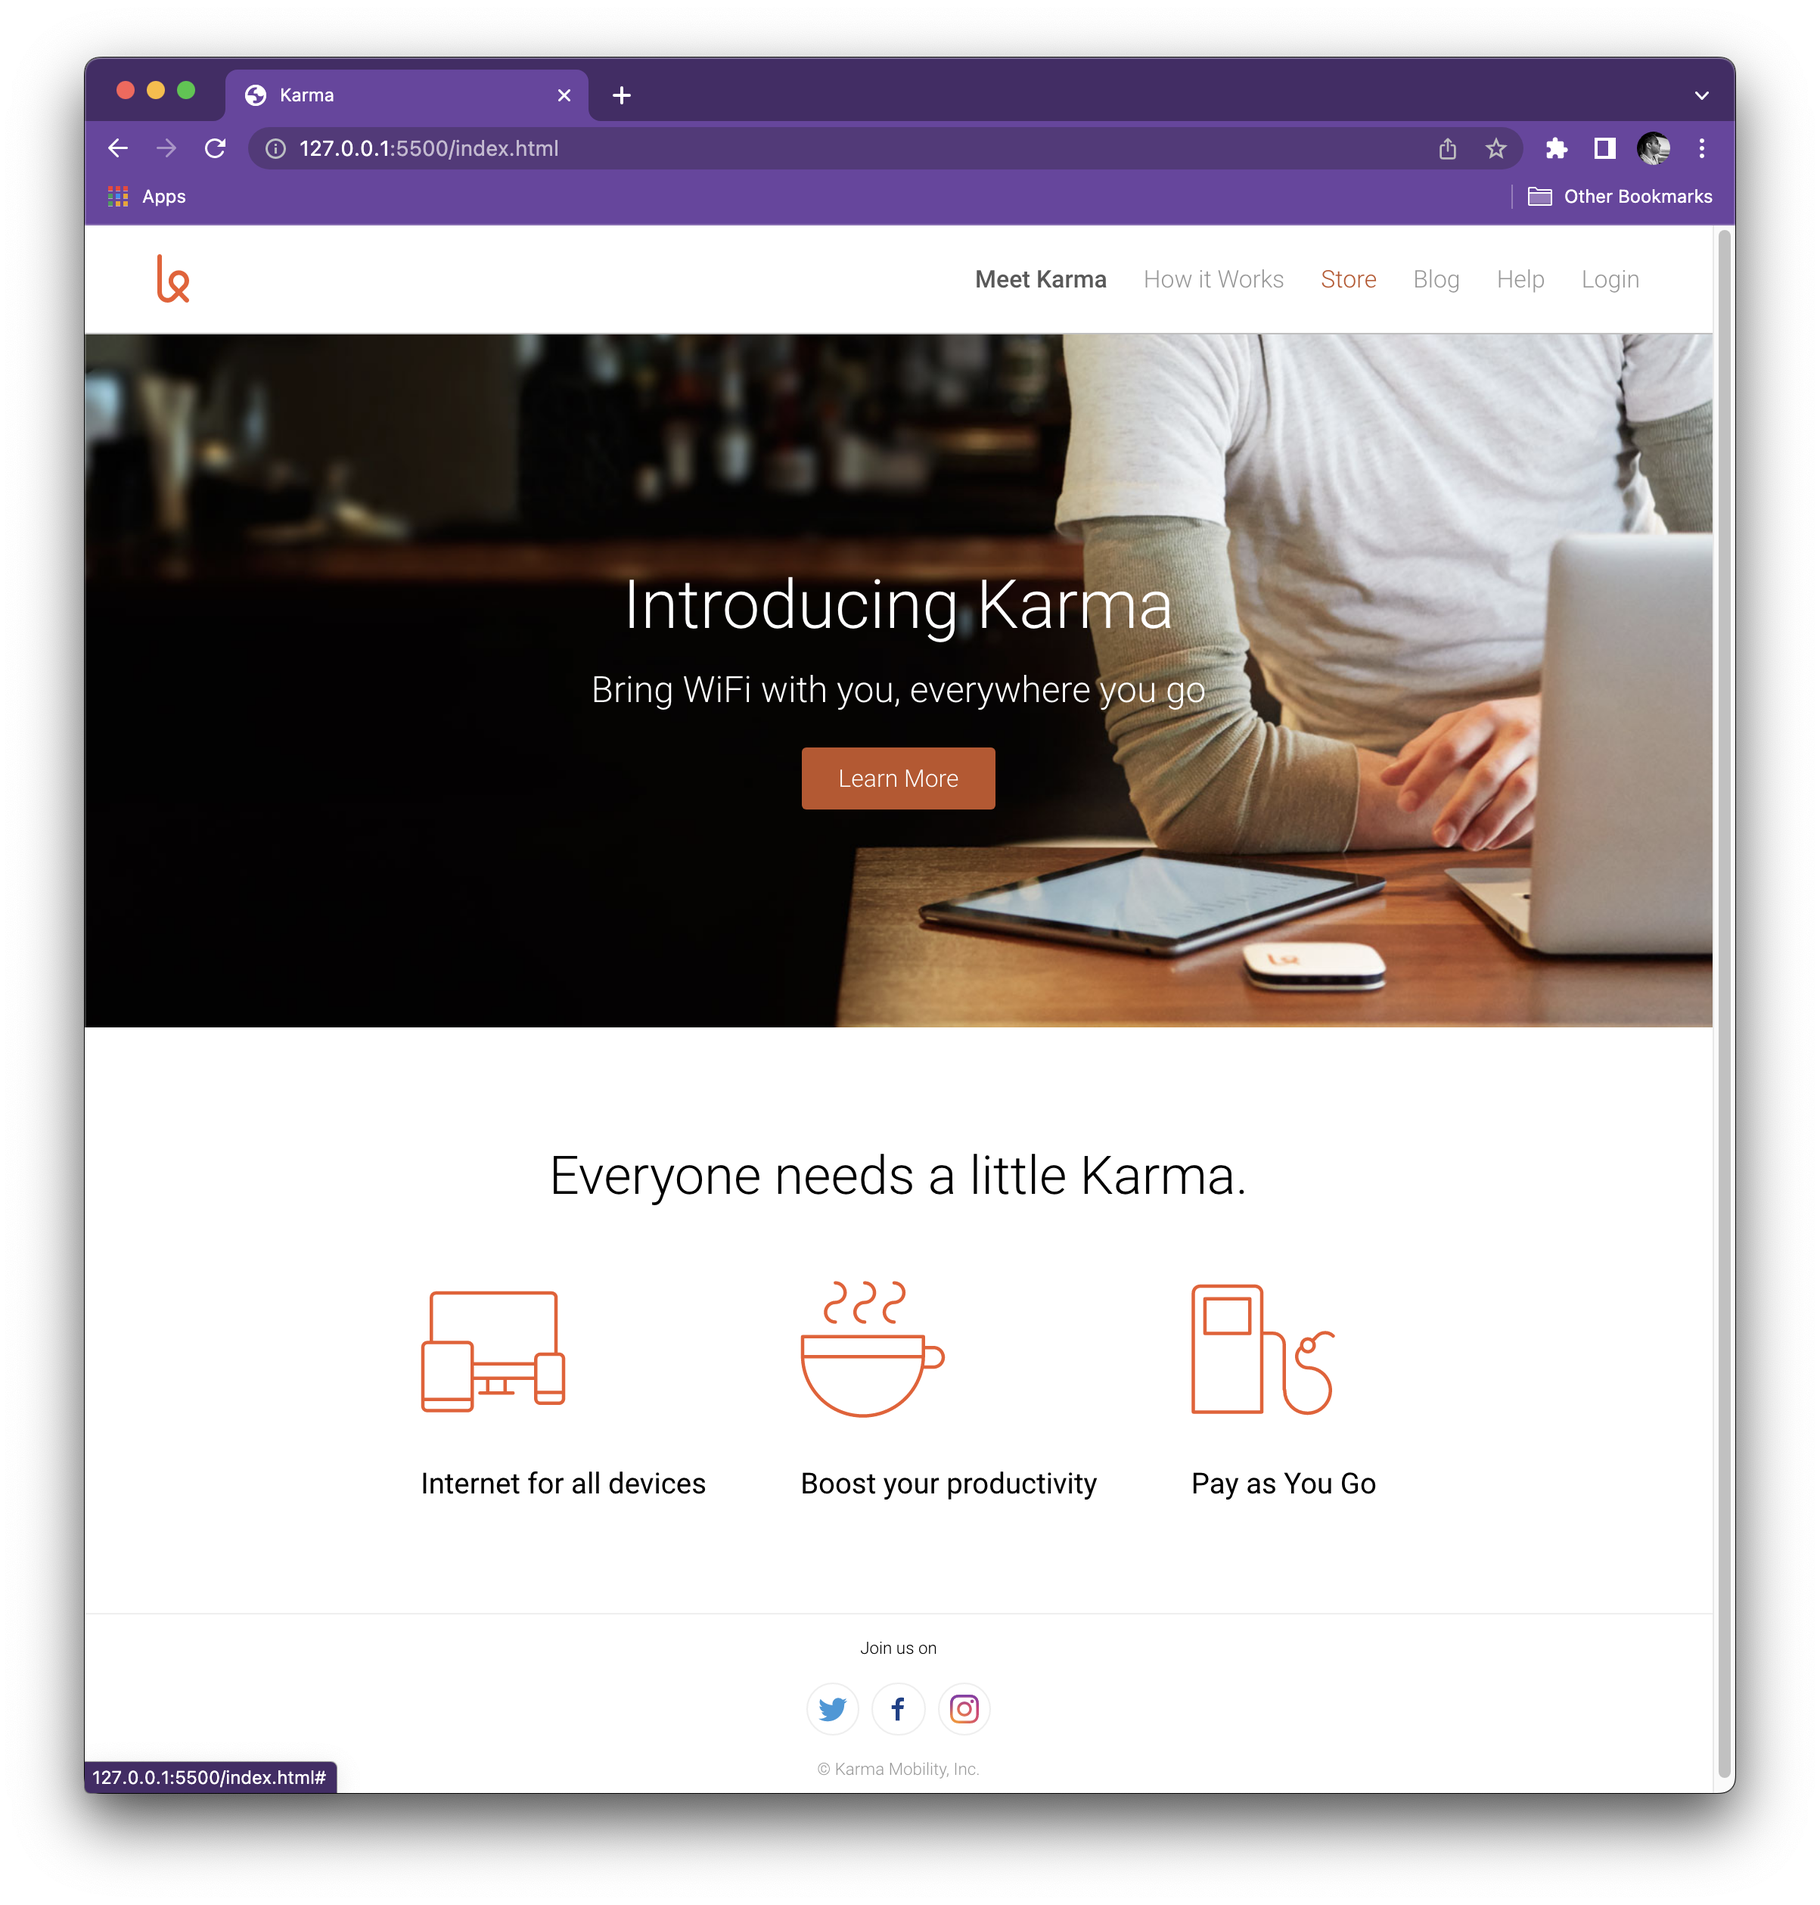
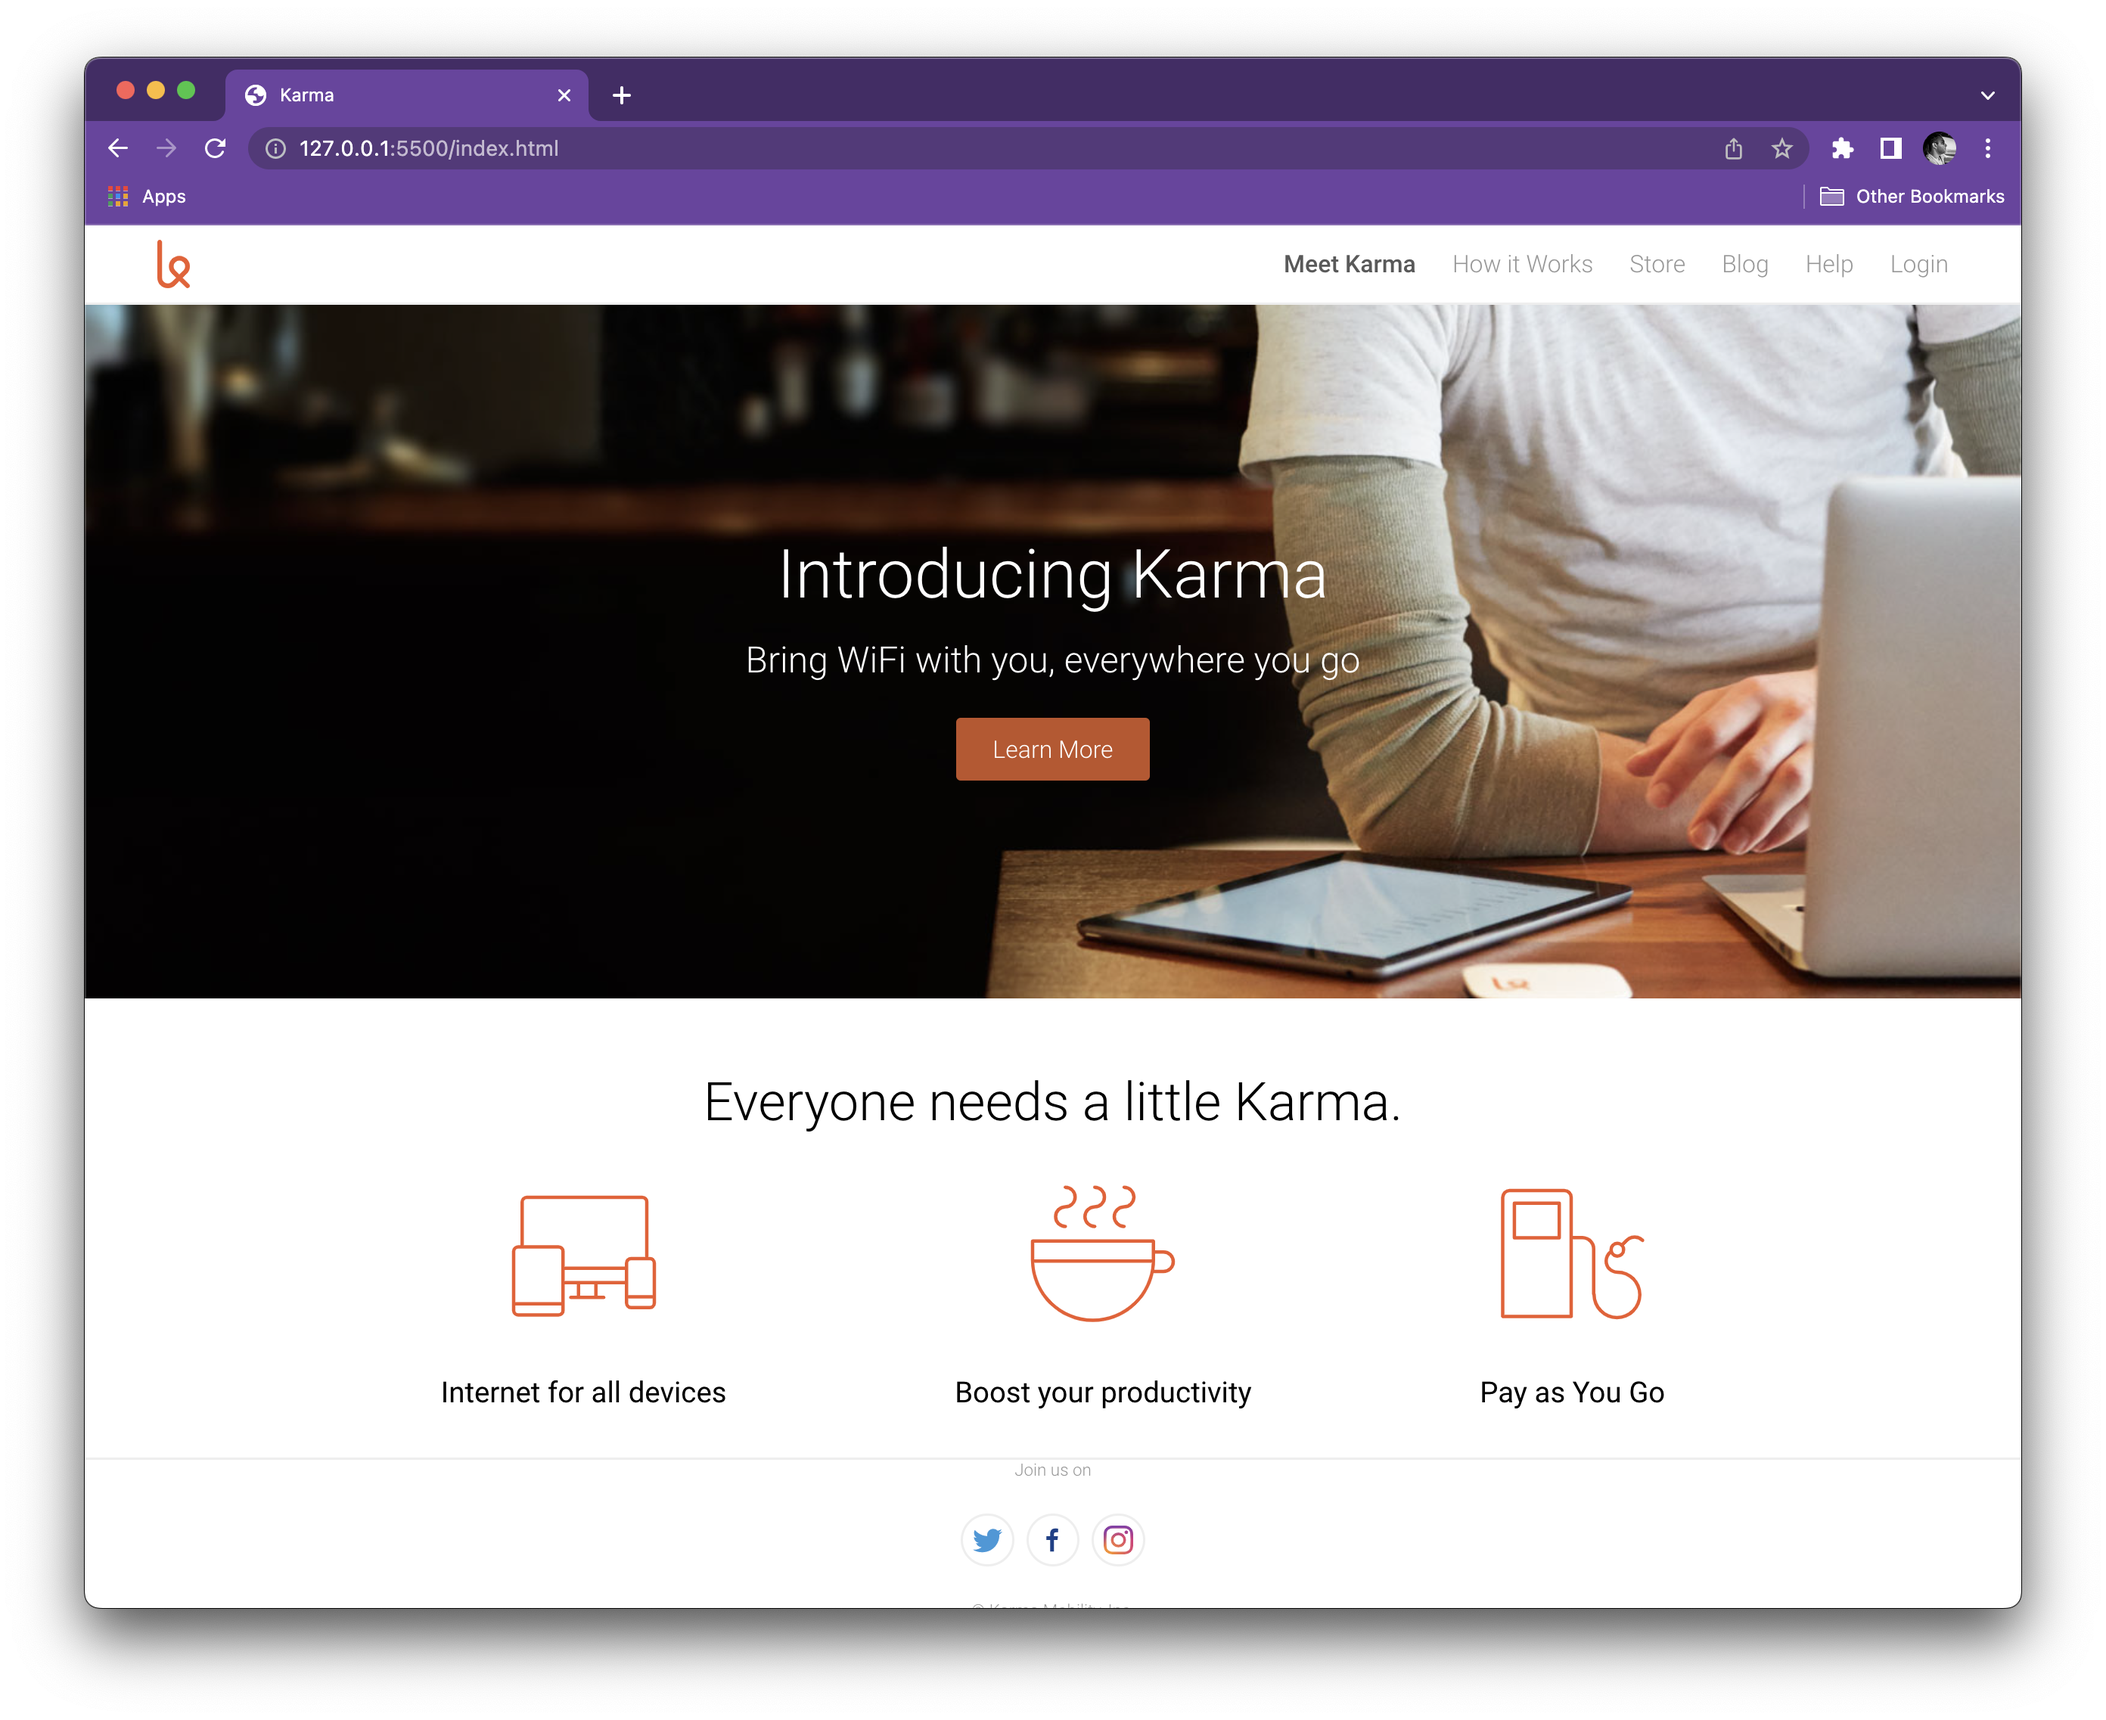
index update

Changed region(s): [[0.0312, 0.0312, 0.9663, 0.9679], [0.6546, 0.6557, 0.7793, 0.8118], [0.2182, 0.6869, 0.3429, 0.8118]]

diff --git a/css/style.css b/css/style.css
@@ -1,5 +1,9 @@
 /* We are using the 'Roboto' font from Google. This has already been added to your HTML header */
-
+* {
+  margin: 0;
+  padding: 0;
+  box-sizing: border-box;
+}
 body {
   font-family: "Roboto", sans-serif;
   -webkit-font-smoothing: antialiased;
@@ -13,8 +17,8 @@ header {
   display: flex;
   justify-content: space-between;
   align-items: center;
-  padding: 0.1rem 3rem;
-  border-bottom: 0.1rem solid hsl(0, 0%, 75%);
+  padding: 0.5rem 3rem;
+  border-bottom: 0.1rem solid #eeeeee;
 }
 .logo_header {
   display: block;
@@ -23,6 +27,8 @@ header {
 }
 
 /* Navigation style */
+nav {
+}
 .nav_list {
   display: flex;
   list-style: none;
@@ -80,25 +86,34 @@ header {
 .little_karma {
   display: flex;
   flex-direction: column;
+  justify-content: center;
+  align-self: center;
   border-bottom: 0.1rem solid #eeeeee;
-}
-.little_karma > ul {
-  display: flex;
-  flex-direction: row;
-  justify-content: space-evenly;
-  list-style: none;
-  padding: 0rem 10rem;
-  padding-bottom: 2rem;
-}
-.little_karma img {
-  width: 6rem;
+  gap: 2rem;
 }
 .little_karma h2 {
   font-size: 2.2rem;
   font-weight: 300;
   align-self: center;
 }
-.little_karma > ul h4 {
+.row {
+  display: flex;
+  flex-direction: row;
+  justify-content: space-around;
+  list-style: none;
+  padding: 0rem 10rem;
+  padding-bottom: 2rem;
+}
+.row li {
+  display: flex;
+  flex-direction: column;
+  align-items: center;
+  gap: 1rem;
+}
+.little_karma img {
+  width: 6rem;
+}
+.row h4 {
   font-size: 1.2rem;
   font-weight: 400;
   align-self: center;
@@ -120,7 +135,7 @@ footer {
   display: flex;
   flex-direction: column;
   align-items: center;
-  padding: 1rem 0;
+  padding-bottom: 3rem;
 }
 
 .social_media {
@@ -128,7 +143,7 @@ footer {
   flex-direction: row;
   list-style: none;
   gap: 0.5rem;
-  padding: 1rem 0;
+  padding: 1.4rem;
 }
 footer a {
   display: block;
@@ -144,10 +159,7 @@ footer > h6 {
   font-size: 0.8rem;
   font-weight: 400;
 }
-footer > span:first-child {
-  font-size: 0.7rem;
-}
-footer > span:last-child {
+footer > span {
   font-size: 0.7rem;
   color: #989898;
 }
